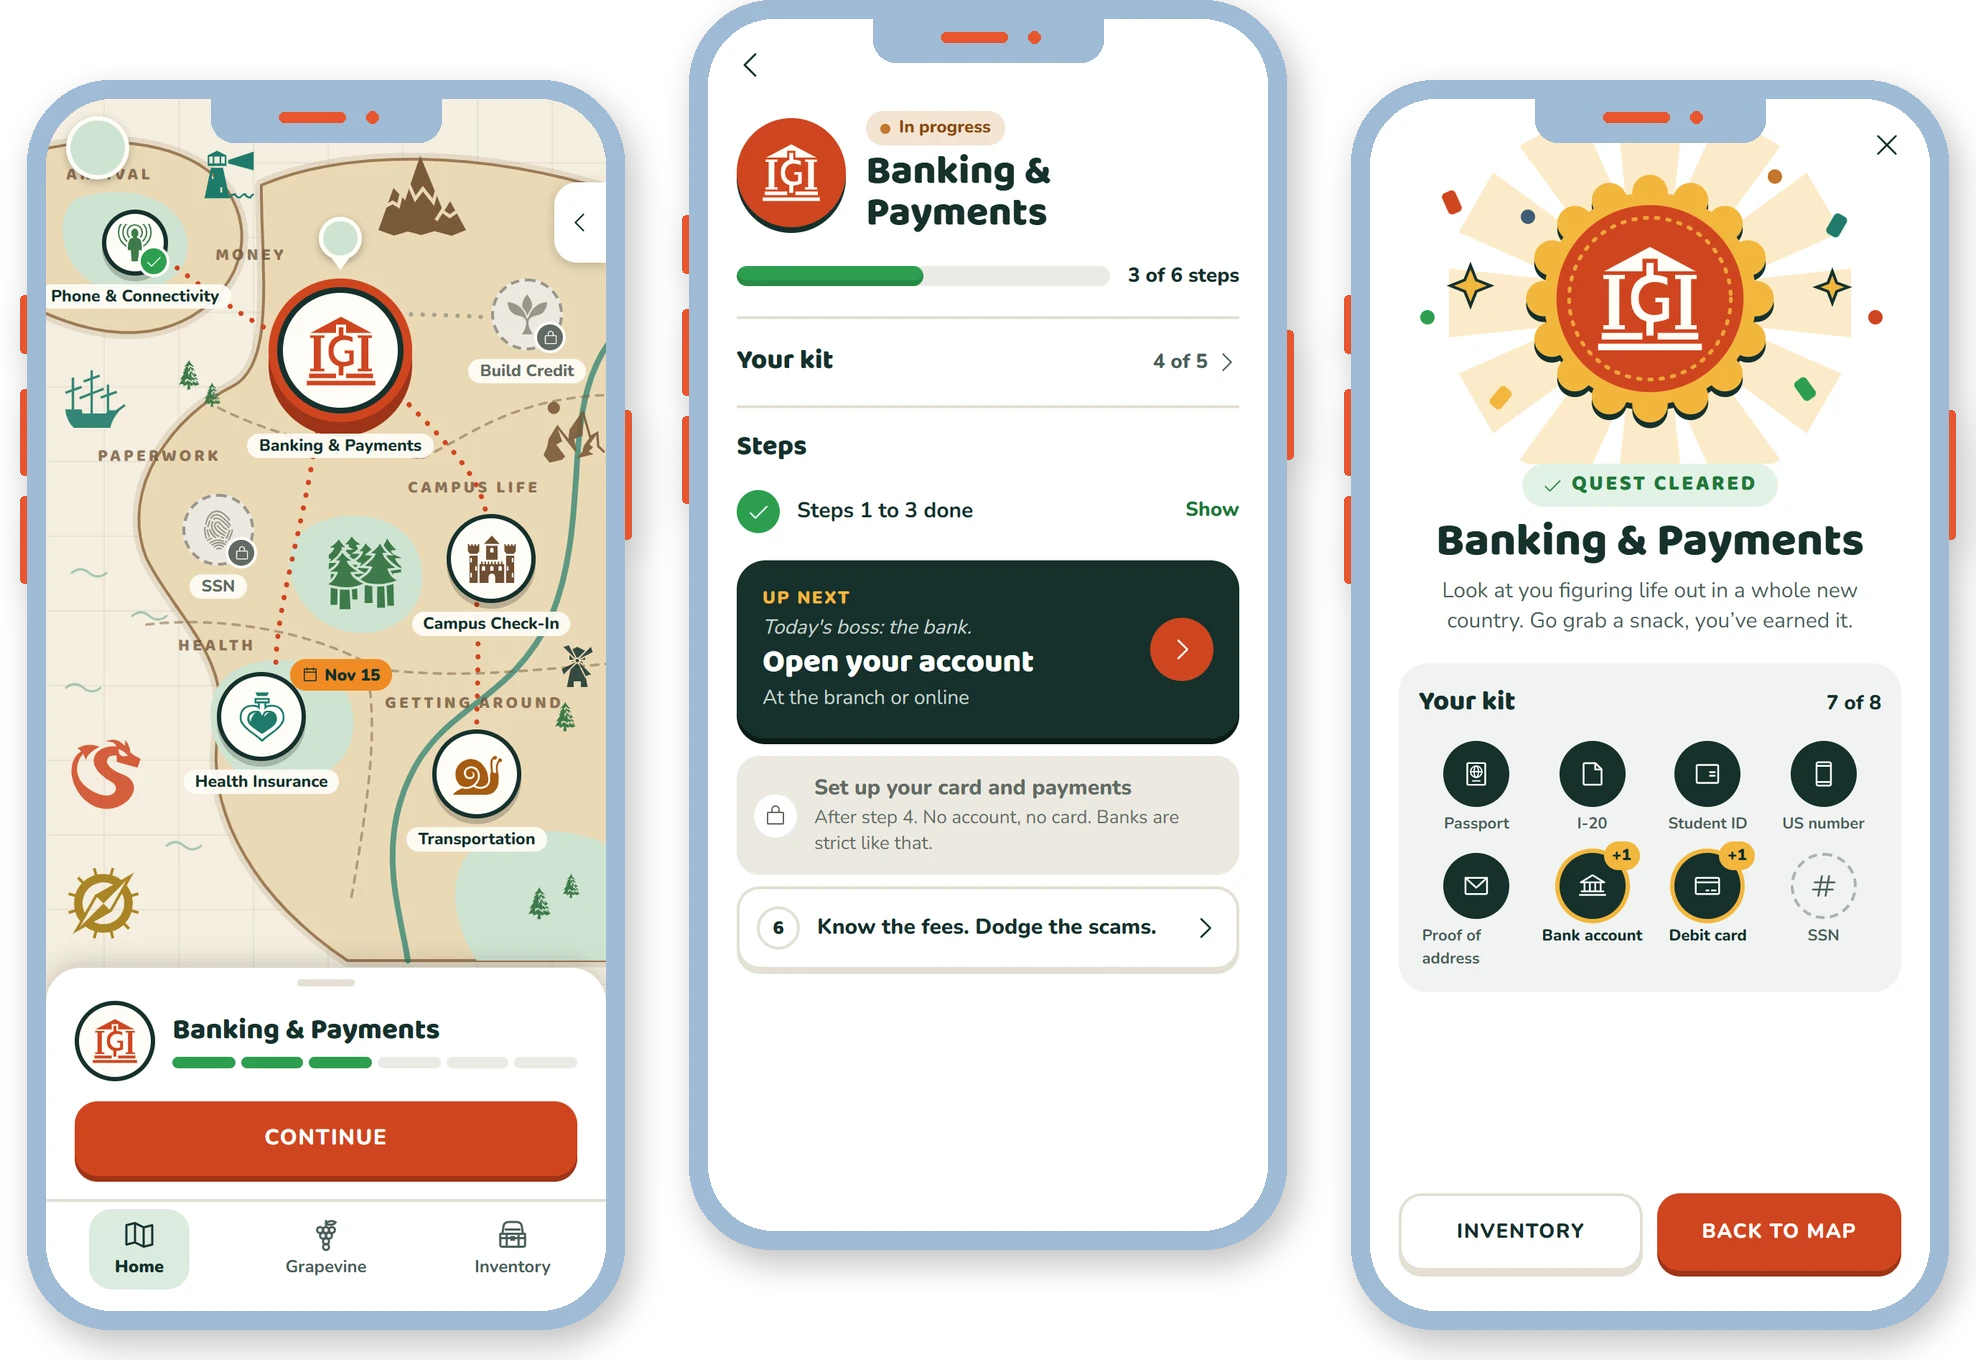
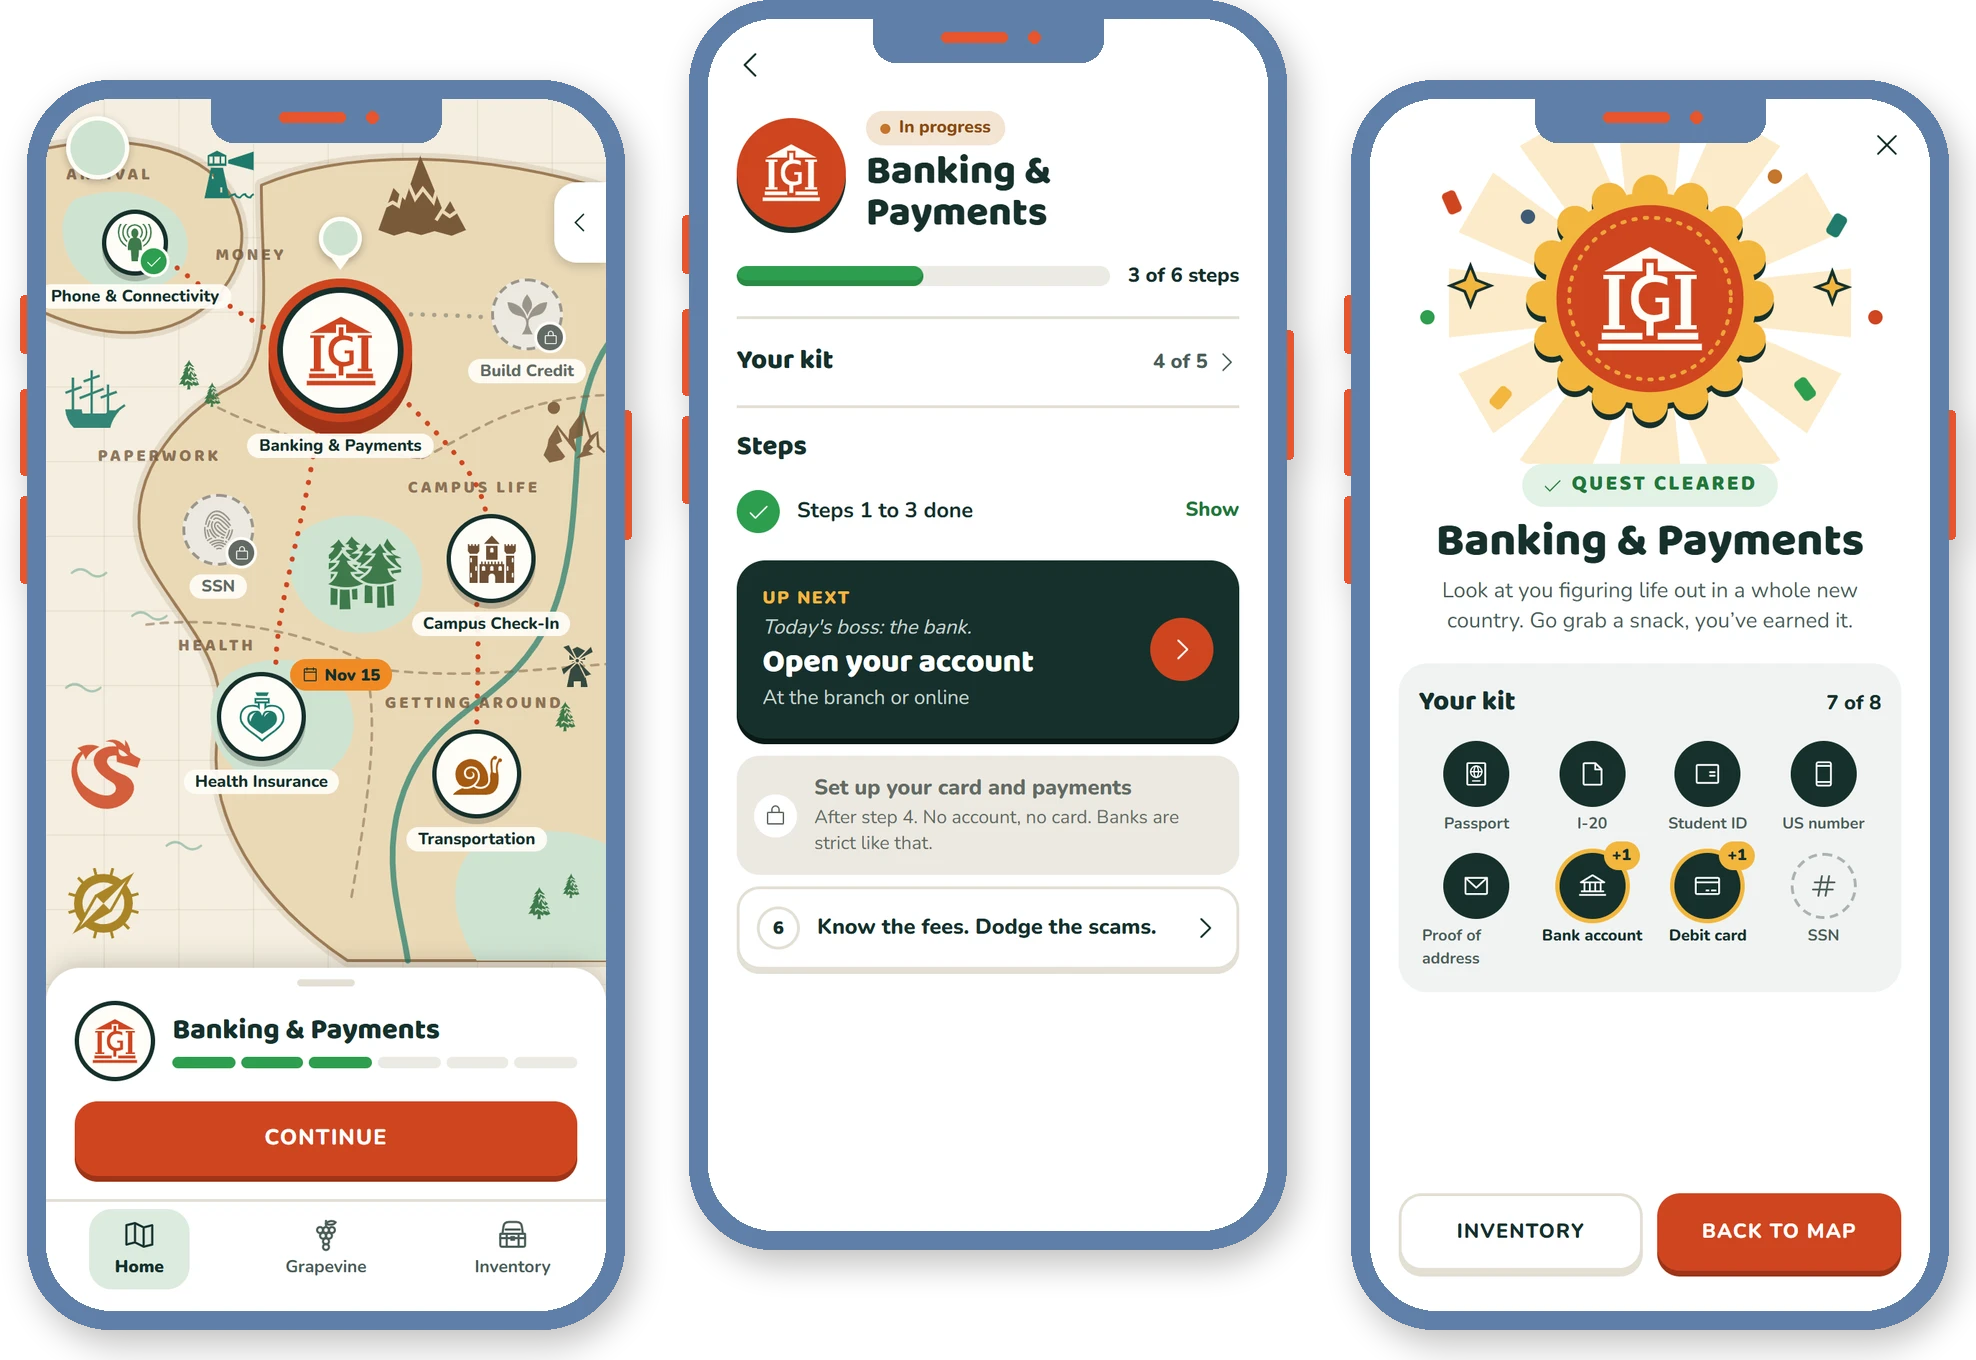
Lendi: darker blue phone frames in dark mode

Changed region(s): [[0.0, 0.0, 0.6483, 0.9882], [0.6791, 0.0618, 0.9879, 0.9882]]

diff --git a/case-studies/boutique-visit-recaps/index.html b/case-studies/boutique-visit-recaps/index.html
@@ -26,9 +26,9 @@
   <link rel="preconnect" href="https://fonts.gstatic.com" crossorigin>
   <link href="https://fonts.googleapis.com/css2?family=Playfair+Display:ital,wght@0,700;0,900;1,900&family=Lora:ital,wght@0,400;0,700;1,400&family=Inter:wght@400;500;600&family=Manufacturing+Consent&display=swap" rel="stylesheet">
   <!-- Same ?v= as index.html; bump all three together -->
-  <link rel="stylesheet" href="../../assets/css/style.css?v=2026-11-15c">
-  <link rel="stylesheet" href="../../assets/css/case-study.css?v=2026-11-15c">
-  <script src="../../assets/js/main.js?v=2026-11-15c" defer></script>
+  <link rel="stylesheet" href="../../assets/css/style.css?v=2026-11-15d">
+  <link rel="stylesheet" href="../../assets/css/case-study.css?v=2026-11-15d">
+  <script src="../../assets/js/main.js?v=2026-11-15d" defer></script>
 </head>
 <body>
 

diff --git a/case-studies/insightcuts/index.html b/case-studies/insightcuts/index.html
@@ -26,9 +26,9 @@
   <link rel="preconnect" href="https://fonts.gstatic.com" crossorigin>
   <link href="https://fonts.googleapis.com/css2?family=Playfair+Display:ital,wght@0,700;0,900;1,900&family=Lora:ital,wght@0,400;0,700;1,400&family=Inter:wght@400;500;600&family=Manufacturing+Consent&display=swap" rel="stylesheet">
   <!-- Same ?v= as index.html; bump all three together -->
-  <link rel="stylesheet" href="../../assets/css/style.css?v=2026-11-15c">
-  <link rel="stylesheet" href="../../assets/css/case-study.css?v=2026-11-15c">
-  <script src="../../assets/js/main.js?v=2026-11-15c" defer></script>
+  <link rel="stylesheet" href="../../assets/css/style.css?v=2026-11-15d">
+  <link rel="stylesheet" href="../../assets/css/case-study.css?v=2026-11-15d">
+  <script src="../../assets/js/main.js?v=2026-11-15d" defer></script>
 </head>
 <body>
 

diff --git a/case-studies/lendi/index.html b/case-studies/lendi/index.html
@@ -26,9 +26,9 @@
   <link rel="preconnect" href="https://fonts.gstatic.com" crossorigin>
   <link href="https://fonts.googleapis.com/css2?family=Playfair+Display:ital,wght@0,700;0,900;1,900&family=Lora:ital,wght@0,400;0,700;1,400&family=Inter:wght@400;500;600&family=Manufacturing+Consent&display=swap" rel="stylesheet">
   <!-- Same ?v= as index.html; bump all three together -->
-  <link rel="stylesheet" href="../../assets/css/style.css?v=2026-11-15c">
-  <link rel="stylesheet" href="../../assets/css/case-study.css?v=2026-11-15c">
-  <script src="../../assets/js/main.js?v=2026-11-15c" defer></script>
+  <link rel="stylesheet" href="../../assets/css/style.css?v=2026-11-15d">
+  <link rel="stylesheet" href="../../assets/css/case-study.css?v=2026-11-15d">
+  <script src="../../assets/js/main.js?v=2026-11-15d" defer></script>
 </head>
 <body>
 

diff --git a/case-studies/tiffany-wishlist/index.html b/case-studies/tiffany-wishlist/index.html
@@ -26,9 +26,9 @@
   <link rel="preconnect" href="https://fonts.gstatic.com" crossorigin>
   <link href="https://fonts.googleapis.com/css2?family=Playfair+Display:ital,wght@0,700;0,900;1,900&family=Lora:ital,wght@0,400;0,700;1,400&family=Inter:wght@400;500;600&family=Manufacturing+Consent&display=swap" rel="stylesheet">
   <!-- Same ?v= as index.html; bump all three together -->
-  <link rel="stylesheet" href="../../assets/css/style.css?v=2026-11-15c">
-  <link rel="stylesheet" href="../../assets/css/case-study.css?v=2026-11-15c">
-  <script src="../../assets/js/main.js?v=2026-11-15c" defer></script>
+  <link rel="stylesheet" href="../../assets/css/style.css?v=2026-11-15d">
+  <link rel="stylesheet" href="../../assets/css/case-study.css?v=2026-11-15d">
+  <script src="../../assets/js/main.js?v=2026-11-15d" defer></script>
 </head>
 <body>
 

diff --git a/case-studies/worlds-of-hello/index.html b/case-studies/worlds-of-hello/index.html
@@ -26,9 +26,9 @@
   <link rel="preconnect" href="https://fonts.gstatic.com" crossorigin>
   <link href="https://fonts.googleapis.com/css2?family=Playfair+Display:ital,wght@0,700;0,900;1,900&family=Lora:ital,wght@0,400;0,700;1,400&family=Inter:wght@400;500;600&family=Manufacturing+Consent&display=swap" rel="stylesheet">
   <!-- Same ?v= as index.html; bump all three together -->
-  <link rel="stylesheet" href="../../assets/css/style.css?v=2026-11-15c">
-  <link rel="stylesheet" href="../../assets/css/case-study.css?v=2026-11-15c">
-  <script src="../../assets/js/main.js?v=2026-11-15c" defer></script>
+  <link rel="stylesheet" href="../../assets/css/style.css?v=2026-11-15d">
+  <link rel="stylesheet" href="../../assets/css/case-study.css?v=2026-11-15d">
+  <script src="../../assets/js/main.js?v=2026-11-15d" defer></script>
 </head>
 <body>
 

diff --git a/index.html b/index.html
@@ -34,8 +34,8 @@
   <link rel="preconnect" href="https://fonts.gstatic.com" crossorigin>
   <link href="https://fonts.googleapis.com/css2?family=Playfair+Display:ital,wght@0,700;0,900;1,900&family=Lora:ital,wght@0,400;0,700;1,400&family=Inter:wght@400;500;600&family=Manufacturing+Consent&display=swap" rel="stylesheet">
   <!-- When style.css or main.js changes, set ?v= on both lines, and on every case-studies/*/index.html, to the deploy date (YYYY-MM-DD, plus b, c… for a second deploy that day) so returning visitors get the new files -->
-  <link rel="stylesheet" href="./assets/css/style.css?v=2026-11-15c">
-  <script src="./assets/js/main.js?v=2026-11-15c" defer></script>
+  <link rel="stylesheet" href="./assets/css/style.css?v=2026-11-15d">
+  <script src="./assets/js/main.js?v=2026-11-15d" defer></script>
 </head>
 <body>
 
